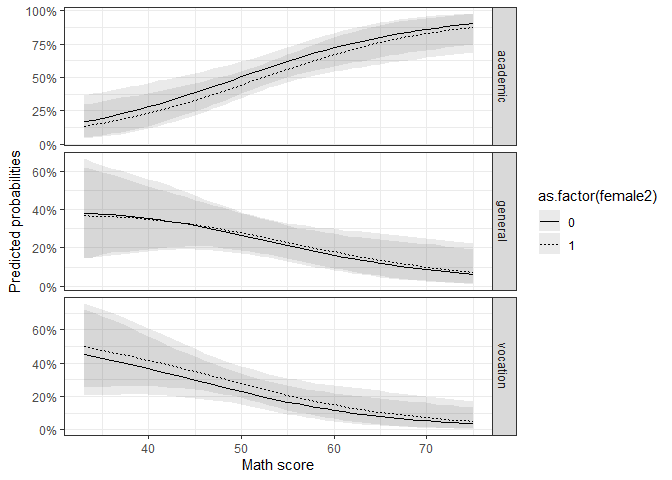
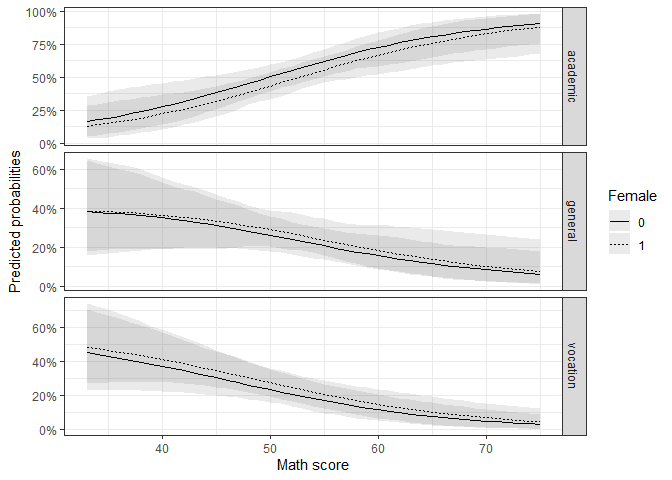
Updated README and vignette with new function

diff --git a/README.md b/README.md
@@ -53,7 +53,7 @@ The procedure follows the following steps:
 1.  Estimate a multinomial model and save the coefficients and the
     variance covariance matrix (based on the Hessian-matrix of the
     model).
-2.  To simulate uncertainty, draw \(n\) times coefficients from a
+2.  To simulate uncertainty, make \(n\) draws of coefficients from a
     simulated sampling distribution based on the coefficients and the
     variance covariance matrix.
 3.  Predict probabilities by multiplying the drawn coefficients with a
@@ -61,27 +61,28 @@ The procedure follows the following steps:
 4.  Take the mean and the quantiles of the simulated predicted
     probabilities.
 
-The presented functions follow these steps. Additionally, they use (so
-far) the so called observed value approach. This means as the
-“scenario”, all the observed values are used that were informin the
-model. Therefore the function takes these more detailed steps:
+The presented functions follow these steps. Additionally, they use the
+so called observed value approach. This means that the “scenario” uses
+all observed values that informed the model. Therefore the function
+takes these more detailed steps:
 
 1.  For all (complete) cases \(n\) predictions are computed based on
     their observed independent values and the \(n\) sets of
     coefficients.
-2.  Next the predicted values of all observation for each simulation are
-    averaged.
-3.  See step 4. above.
+2.  Next the predicted values of all observationS for each simulation
+    are averaged.
+3.  Take the mean and the quantiles of the simulated predicted
+    probabilities (same as above).
 
-For so-called first differences, the simulated predictions are
-subtracted from each other.
+For first differences, the simulated predictions are subtracted from
+each other.
 
-To showcase these steps, I present a reproducable example how the
+To showcase these steps, I present a reproducible example of how the
 functions can be used.
 
 ### Example
 
-The example is based on this [UCLA R data analysis
+The example is based on [this UCLA R data analysis
 example](https://stats.idre.ucla.edu/r/dae/multinomial-logistic-regression/).
 
 The data is an example dataset, including the career choice of 200 high
@@ -207,8 +208,8 @@ should be predicted (`by`). Additionally, a `seed` can be defined for
 replication purposes, the numbers of simulations can be defined
 (`nsim`), and the confidence intervals (`probs`).
 
-(If we want to hold another variable stable, we can specify so with
-`scennname`and `scenvalue`. See also the `mnl_fd_ova()` function below.)
+If we want to hold another variable stable, we can specify so with
+`scennname`and `scenvalue`. See also the `mnl_fd_ova()` function below.
 
 ``` r
 pred1 <- mnl_pred_ova(model = mod1,
@@ -216,7 +217,7 @@ pred1 <- mnl_pred_ova(model = mod1,
                       xvari = "math",
                       by = 1,
                       seed = "random", # default
-                      nsim = 1000, # default
+                      nsim = 100, # faster
                       probs = c(0.025, 0.975)) # default
 ```
 
@@ -228,18 +229,18 @@ pred1$plotdata %>% head()
 #> # A tibble: 6 x 5
 #>    math prog2     mean  lower upper
 #>   <dbl> <fct>    <dbl>  <dbl> <dbl>
-#> 1    33 academic 0.148 0.0474 0.318
-#> 2    34 academic 0.160 0.0554 0.331
-#> 3    35 academic 0.173 0.0643 0.344
-#> 4    36 academic 0.187 0.0750 0.357
-#> 5    37 academic 0.202 0.0878 0.369
-#> 6    38 academic 0.218 0.101  0.381
+#> 1    33 academic 0.142 0.0496 0.305
+#> 2    34 academic 0.155 0.0580 0.314
+#> 3    35 academic 0.168 0.0677 0.324
+#> 4    36 academic 0.182 0.0787 0.333
+#> 5    37 academic 0.196 0.0913 0.343
+#> 6    38 academic 0.212 0.106  0.352
 ```
 
 As we can see, it includes the range of the x variable, a mean, a lower,
 and an upper bound of the confidence interval. Concerning the choice
 category, the data is in a long format. This makes it easy to plot it
-with the `ggplot` syntax. The choice category can now easily used to
+with the `ggplot` syntax. The choice category can now easily be used to
 differenciate the lines in the plot by using `linetype = prog2` in the
 `aes()`. Another option is to use `facet_wrap()` or `facet_grid()` to
 differenciate the predictions:
@@ -258,39 +259,68 @@ ggplot(data = pred1$plotdata, aes(x = math, y = mean,
 
 ![](README_files/figure-gfm/prediction_plot1-1.png)<!-- -->
 
-We are often not only interested in the progress of probability but in
-the difference between scenarios. This is especially helpful when we
-look at dummy variables. For example, we could be interested in the
-effect of `female`. With the `mnl_fd_ova()` function, we can predict the
-probabilities for two scenarios and subtract them. The function returns
-the differences and the confidence intervals of the differences. The
-different scenarios can be held stable with `scenname` and the
-`scenvalues`. `scenvalues` takes a vector of two numeric values. These
-values are held stable for the variable that is named in `scenname`.
+If we want first differences between two scenarios, we can use the
+function `mnl_fd2_ova()`. The function takes similar arguments as the
+function above, but now the values for the scenarios of interest have to
+be supplied. Imagine we want to know what difference it makes to have
+the lowest or highest `math` score. This can be done as follows:
 
 ``` r
-fdif1 <- mnl_fd_ova(model = mod1,
+fdif1 <- mnl_fd2_ova(model = mod1,
+                     data = ml,
+                     xvari = "math",
+                     value1 = min(ml$math),
+                     value2 = max(ml$math),
+                     nsim = 100)
+```
+
+The first differences can then be depicted in a graph.
+
+``` r
+ggplot(fdif1$plotdata_fd, aes(categories, y = mean,
+                              ymin = lower, max = upper)) +
+  geom_pointrange() +
+  geom_hline(yintercept = 0) +
+  scale_y_continuous(labels = percent_format())
+```
+
+![](README_files/figure-gfm/static_fd_plot-1.png)<!-- -->
+
+We are often not only interested in the static difference, but the
+difference across a span of values, given a difference in a second
+variable. This is especially helpful when we look at dummy variables.
+For example, we could be interested in the effect of `female`. With the
+`mnl_fd_ova()` function, we can predict the probabilities for two
+scenarios and subtract them. The function returns the differences and
+the confidence intervals of the differences. The different scenarios can
+be held stable with `scenname` and the `scenvalues`. `scenvalues` takes
+a vector of two numeric values. These values are held stable for the
+variable that is named in `scenname`.
+
+``` r
+fdif2 <- mnl_fd_ova(model = mod1,
                     data = ml,
                     xvari = "math",
                     by = 1,
                     scenname = "female2",
-                    scenvalues = c(0,1))
+                    scenvalues = c(0,1),
+                    nsim = 100)
 ```
 
 As before, the function returns a list, including a data set that can be
 used to plot the differences.
 
 ``` r
-fdif1$plotdata %>% head()
+fdif2$plotdata %>% head()
 #> # A tibble: 6 x 5
 #>    math prog2       mean  lower  upper
 #>   <dbl> <fct>      <dbl>  <dbl>  <dbl>
-#> 1    33 academic -0.0333 -0.138 0.0497
-#> 2    34 academic -0.0353 -0.142 0.0526
-#> 3    35 academic -0.0373 -0.147 0.0564
-#> 4    36 academic -0.0394 -0.152 0.0603
-#> 5    37 academic -0.0415 -0.156 0.0627
-#> 6    38 academic -0.0436 -0.160 0.0649
+#> 1    33 academic -0.0363 -0.141 0.0426
+#> 2    34 academic -0.0385 -0.148 0.0455
+#> 3    35 academic -0.0409 -0.154 0.0485
+#> 4    36 academic -0.0433 -0.160 0.0515
+#> 5    37 academic -0.0457 -0.166 0.0543
+#> 6    38 academic -0.0482 -0.171 0.0566
 ```
 
 Since the function calls the `mnl_pred_ova()` function internally, it
@@ -300,8 +330,8 @@ data for both scenarios. Binding them together makes for good data to
 visualize the differences.
 
 ``` r
-pred_plotdat <- rbind(fdif1$Prediction1$plotdata,
-                      fdif1$Prediction2$plotdata)
+pred_plotdat <- rbind(fdif2$Prediction1$plotdata,
+                      fdif2$Prediction2$plotdata)
 
 ggplot(data = pred_plotdat, aes(x = math, y = mean,
                                 ymin = lower, ymax = upper,
@@ -310,6 +340,7 @@ ggplot(data = pred_plotdat, aes(x = math, y = mean,
   geom_line() +
   facet_grid(prog2 ~., scales = "free_y") +
   scale_y_continuous(labels = percent_format(accuracy = 1)) + # % labels
+  scale_linetype_discrete(name = "Female") +
   theme_bw() +
   labs(y = "Predicted probabilities",
        x = "Math score") # Always label your axes ;)
@@ -321,7 +352,7 @@ As we can see, the differences between `female` and not-`female` are
 minimal. So let’s take a look at the differences:
 
 ``` r
-ggplot(data = fdif1$plotdata, aes(x = math, y = mean,
+ggplot(data = fdif2$plotdata, aes(x = math, y = mean,
                                   ymin = lower, ymax = upper)) +
   geom_ribbon(alpha = 0.1) +
   geom_line() +
@@ -333,36 +364,38 @@ ggplot(data = fdif1$plotdata, aes(x = math, y = mean,
        x = "Math score") # Always label your axes ;)
 ```
 
-![](README_files/figure-gfm/first_differences_plot-1.png)<!-- --> We can
-see that the differences are in fact minimal and at no point
+![](README_files/figure-gfm/first_differences_plot-1.png)<!-- -->
+
+We can see that the differences are in fact minimal and at no point
 statistically significant from 0.
 
 ## Conclusion
 
 Multinomial logit models are important to model nominal choices. They
 are restricted however by being in need of a baseline category.
-Additionally, the log-character of the estimates makes them difficult to
-interpret in meaningful ways. Predicting probabilities for all choices
-for scenarios, based on the observed data provides much more insight.
-The functions of this package provide easy to use functions that return
-data that can be used to plot predicted probabilities. The function uses
-a model from the `multinom()` function and uses the observed value
-approach and a supplied scenario to predict values over the range of
-fitting values. The functions simulate sampling distributions and
-therefore provide meaningful confidence intervals. `mnl_pred_ova()` can
-be used to predict probabilities for a certain scenario. `mnl_fd_ova()`
-can be used to predict probabilities for two scenarios and their first
-differences.
+Additionally, the log-character of the estimates makes it difficult to
+interpret them in meaningful ways. Predicting probabilities for all
+choices for scenarios, based on the observed data provides much more
+insight. The functions of this package provide easy to use functions
+that return data that can be used to plot predicted probabilities. The
+function uses a model from the `multinom()` function and uses the
+observed value approach and a supplied scenario to predict values over
+the range of fitting values. The functions simulate sampling
+distributions and therefore provide meaningful confidence intervals.
+`mnl_pred_ova()` can be used to predict probabilities for a certain
+scenario. `mnl_fd_ova()` can be used to predict probabilities for two
+scenarios and their first differences.
 
 ## Acknowledgement
 
-I owe my statistical knowledge about the multinomial model and
-simulations to the method courses in the Political Science master’s
-program at the University of Mannheim. The code is based mainly on the
-tutorials of the “Advanced Quantitative Methods” course by [Thomas
-Gschwend](http://methods.sowi.uni-mannheim.de/thomas_gschwend/), that
-were taught by [Marcel Neunhoeffer](https://www.marcel-neunhoeffer.com/)
-and [Sebastian Sternberg](https://sebastiansternberg.github.io/).
+My code is inspired by the method courses in the [Political Science
+master’s program at the University of
+Mannheim](https://www.sowi.uni-mannheim.de/en/academics/prospective-students/ma-in-political-science/)(cool
+place, check it out\!). The skeleton of the code is based on a tutorial
+taught by [Marcel Neunhoeffer](https://www.marcel-neunhoeffer.com/) and
+[Sebastian Sternberg](https://sebastiansternberg.github.io/) (lecture:
+“Advanced Quantitative Methods” by [Thomas
+Gschwend](http://methods.sowi.uni-mannheim.de/thomas_gschwend/)).
 
 ## References
 
